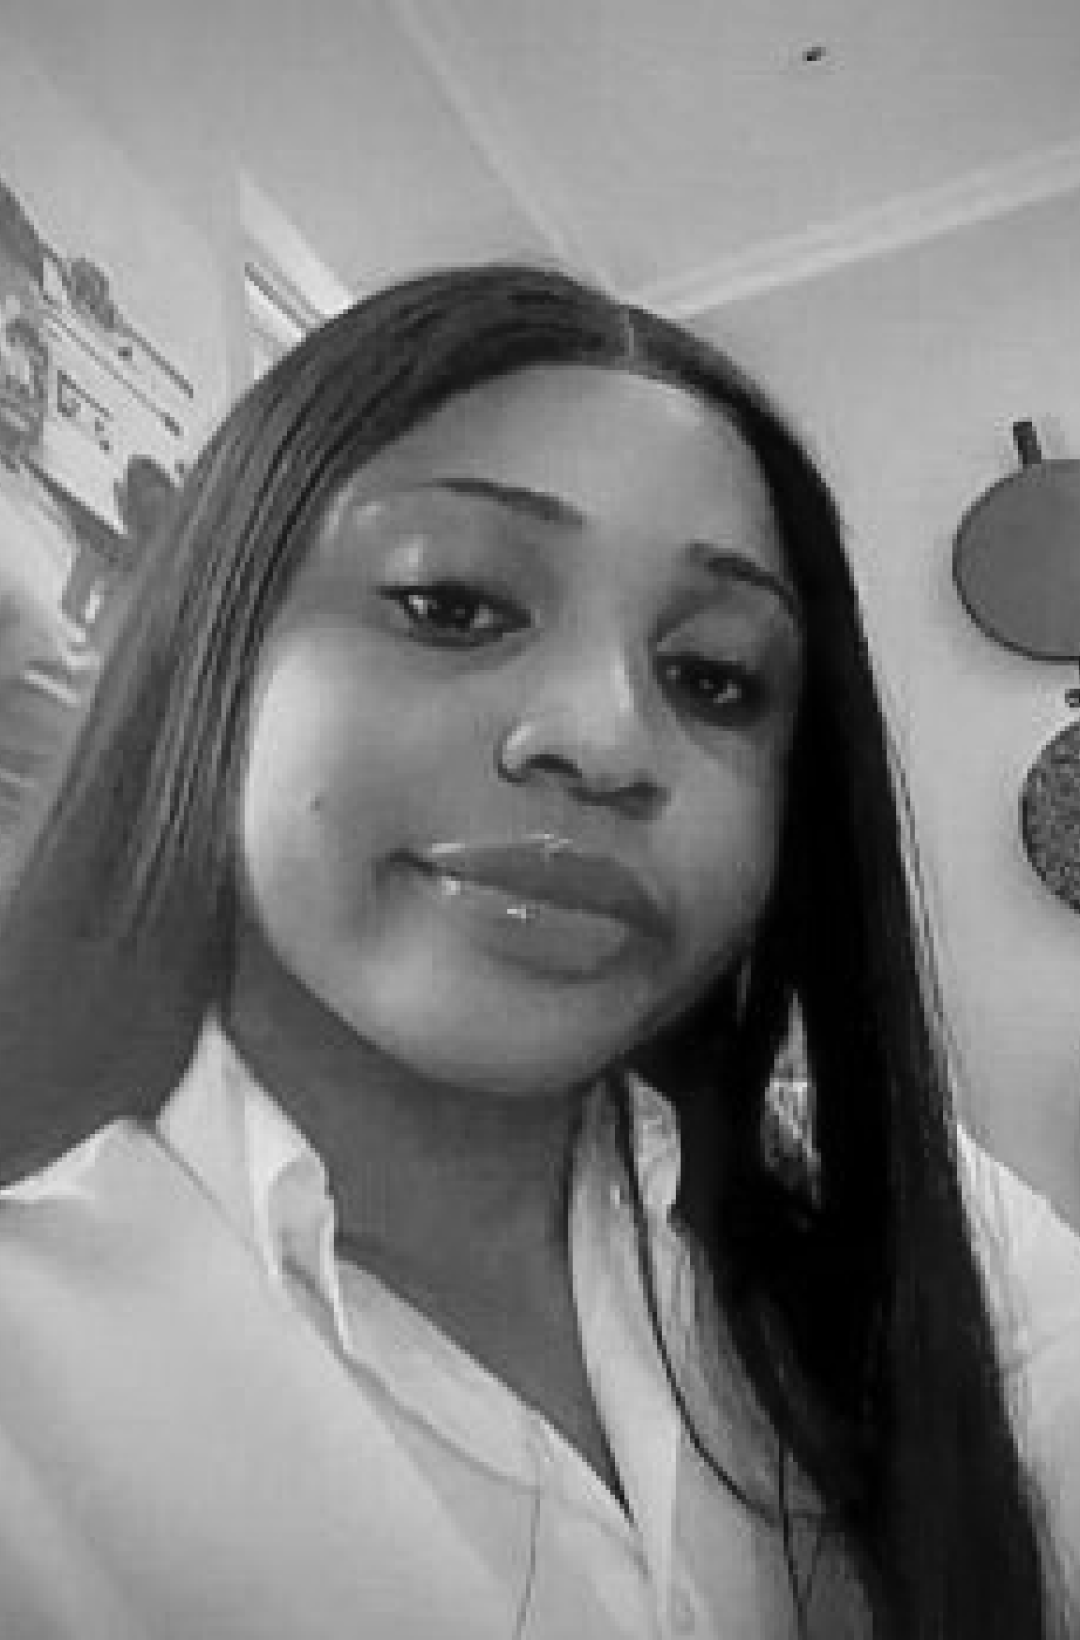
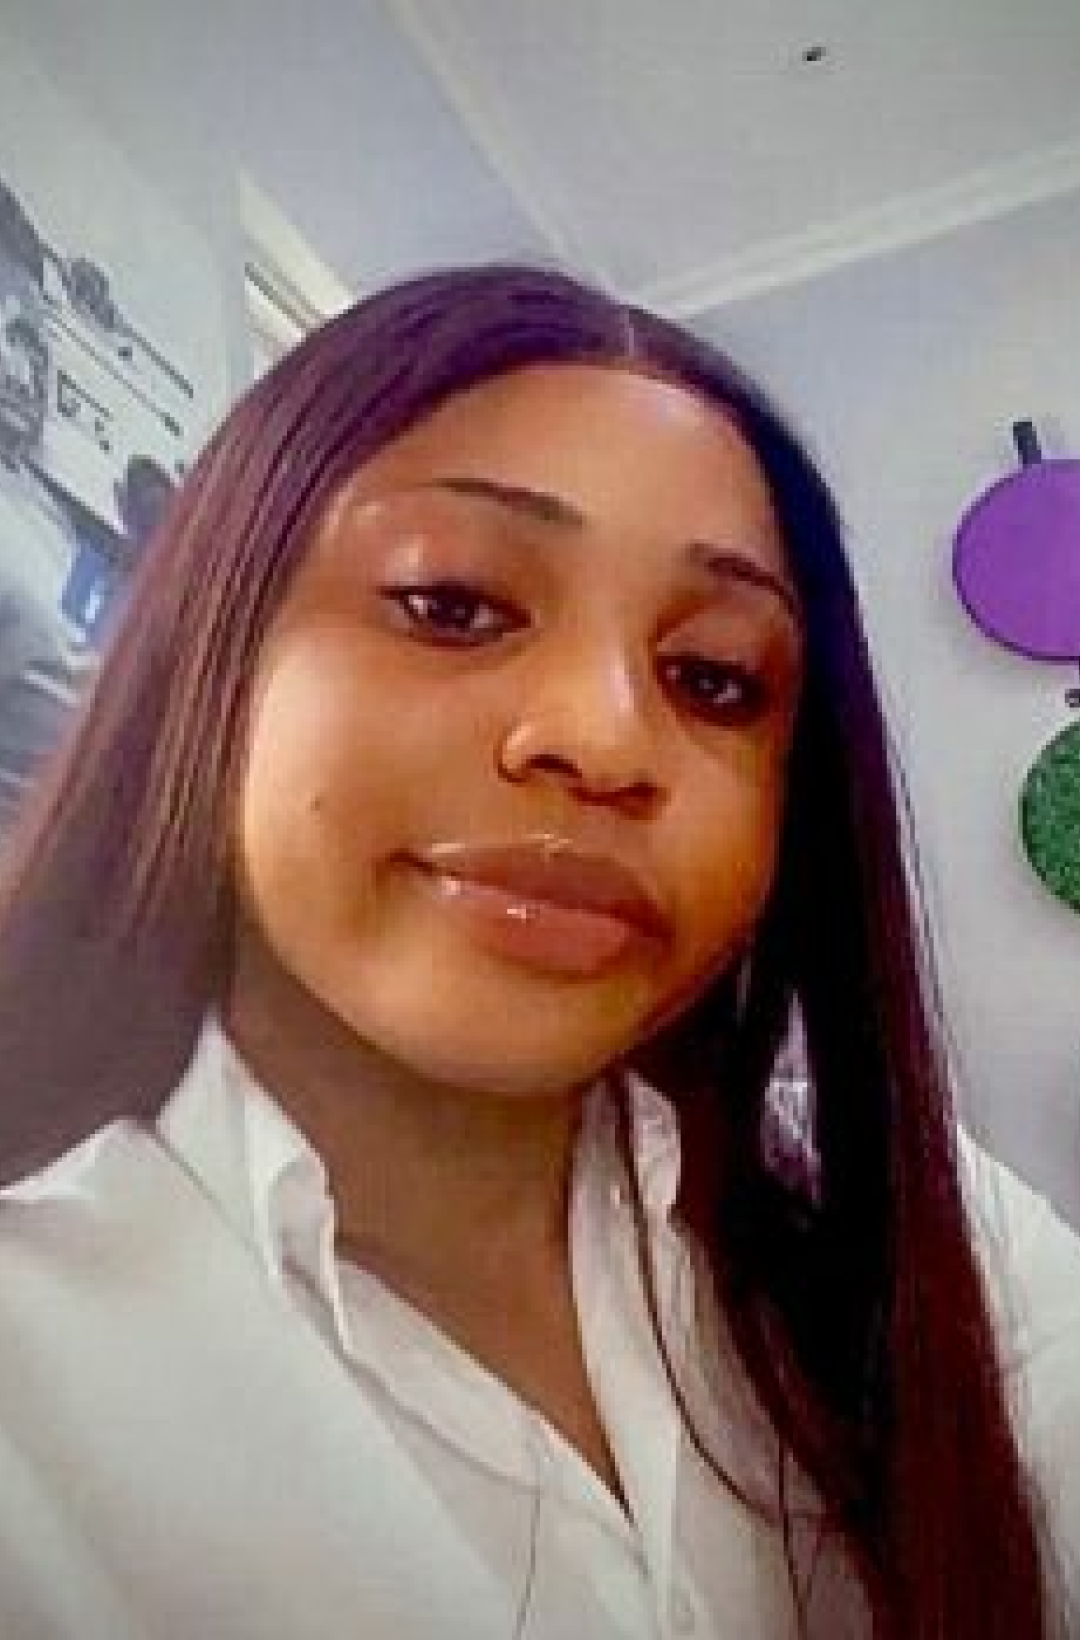
Worked on suggested fixes

diff --git a/src/app/(routes)/page.jsx b/src/app/(routes)/page.jsx
@@ -32,13 +32,14 @@ export default function Home() {
           <div className="potential-text">
             <h4>Unlock Your Trading Potential</h4>
             <p>
-              {`At PandomzFx, we're all about pushing boundaries and breaking free from constraints. It's time to go beyond
-            limits—explore the vast possibilities, learn with unmatched expertise, and achieve heights that once seemed
-            unreachable.`}
+              {`PadomzFx thrives on pushing boundaries and shattering constraints. It's time to exceed
+limits—explore endless possibilities, learn from unparalleled expertise, and reach heights
+that once seemed out of reach.`}
             </p>
             <p>
-              {`With PandomzFx, your journey becomes a limitless adventure where every insight gained, every skill honed,
-            propels you towards unparalleled success in the exhilarating realm of Forex trading.`}
+              {`With PandomzFx, your journey transforms into an adventure without boundaries. Every
+gained insight and honed skill propels you toward unparalleled success in the thrilling realm
+of Forex trading.`}
             </p>
           </div>
         </div>
@@ -61,8 +62,13 @@ export default function Home() {
               <div className="course-content--card--text">
                 <h5>Structured Learning</h5>
                 <p>
-                  Ut pariatur enim et dolore voluptatem sed placeat omnis ut voluptatibus ratione quo quisquam tempora
-                  nam amet assumenda est vero sint eos temporibus consequatur minus amet.
+                  Our academy provides a meticulously crafted curriculum designed to take you from a novice to a
+                  proficient trader.
+                </p>
+                <p>
+                  We offer a systematic approach that begins with foundational concepts, ensuring a solid understanding
+                  of the market, technical analysis, risk management, and trading psychology. Each module builds upon
+                  the previous one, fostering a progressive learning environment.
                 </p>
               </div>
             </div>
@@ -74,10 +80,14 @@ export default function Home() {
               </div>
               <div className="course-content--card--text">
                 <h5>Real-Time Market Insights</h5>
-
                 <p>
                   Stay ahead of the curve with access to live trading sessions, webinars, and market analysis. Learn to
                   interpret market movements and make well-informed trades.
+                </p>
+                <p>
+                  We provide cutting-edge tools and techniques that empower our students with the ability to conduct
+                  real-time analysis. Through live market feeds, up-to-the-minute data, and advanced analytical
+                  resources, our students learn to interpret market dynamics swiftly and accurately.
                 </p>
               </div>
             </div>
@@ -89,10 +99,18 @@ export default function Home() {
               </div>
               <div className="course-content--card--text">
                 <h5>Proven Success Stories</h5>
+
                 <p>
-                  {`Our students have achieved remarkable results, and many have gone on to become successful Forex
-                  traders. When you choose a PandomFx course, you're setting yourself up for a bright future in the
-                  world of Forex.`}
+                  {`Our students have achieved remarkable results, and many have
+                  gone on to become successful Forex traders. When you choose a
+                  PadomzFx course, you're setting yourself up for a bright
+                  future in the world of Forex.`}
+                </p>
+                <p>
+                  Our academy boasts a wealth of success stories, with numerous students achieving their trading goals
+                  and realizing financial independence through our mentorship and educational programs. These success
+                  stories serve as a testament to the effectiveness of our tailored curriculum, personalized mentorship,
+                  and practical learning approach.
                 </p>
               </div>
             </div>
@@ -108,6 +126,12 @@ export default function Home() {
                   Our courses cover everything from the basics of Forex trading to advanced strategies, technical and
                   fundamental analysis, and risk management. We provide you with a 360-degree education to make informed
                   trading decisions.
+                </p>
+                <p>
+                  {`We believe in a hands-on approach to learning. Our curriculum
+                  isn't just theory; it's practical application. We offer live
+                  trading sessions, real-time simulations, and case studies that
+                  immerse students in the dynamic world of Forex trading.`}
                 </p>
               </div>
             </div>

diff --git a/src/app/(routes)/about/page.jsx b/src/app/(routes)/about/page.jsx
@@ -28,13 +28,13 @@ export default function About() {
           </div>
           <div className="academy-content">
             <div className="academy-text">
-              <h4>The Academy</h4>
+              <h4>About PadomzFx</h4>
               <p>
-                {`   Welcome to PadomzFx Academy, where financial success begins with knowledge and support. We're more than
-              just an academy; we're your partners on the journey to financial empowerment. We believe in a hands-on,
-              practical approach to learning. Our courses are designed to give you the knowledge you need, but we also
-              emphasize real-world practice. You'll have access to live trading sessions, market analysis, and ongoing
-              support to ensure your success.`}
+                {` Welcome to PadomzFx Academy, your Gateway to Financial Success through Knowledge and
+Support. As your dedicated partners in financial empowerment, we offer more than mere
+education—we're committed to your success. Our approach blends theoretical knowledge with
+hands-on practice, providing live trading sessions, market analysis, and continuous support. Join us
+to gain essential knowledge and practical experience for your financial journey.`}
               </p>
             </div>
             <div className="academy-group">
@@ -74,8 +74,8 @@ export default function About() {
               </div>
               <p>Community</p>
               <p>
-                Joining PadomzFx Academy means becoming part of a vibrant and supportive community. Connect with fellow
-                traders, share experiences, and learn from each other.
+                PadomzFx consists of a thriving and supportive community. Engage with like-minded traders, exchange
+                experiences, and benefit from collaborative learning opportunities.
               </p>
             </div>
             <div className="advantage-card">
@@ -84,8 +84,8 @@ export default function About() {
               </div>
               <p>Expertise</p>
               <p>
-                Joining PadomzFx Academy means becoming part of a vibrant and supportive community. Connect with fellow
-                traders, share experiences, and learn from each other.
+                {`At PadomzFx Academy, expertise is not just an aspiration; it's our cornerstone. Our mission is to
+                cultivate expertise in every potential trader who walks through our doors.`}
               </p>
             </div>
             <div className="advantage-card">
@@ -94,8 +94,8 @@ export default function About() {
               </div>
               <p>Funding Opportunities</p>
               <p>
-                {`    We're not just about education; we're also about providing you with funding opportunities to kickstart
-                your trading career. We believe in your potential, and we're ready to invest in it.`}
+                {`We understand that access to capital is crucial for forex traders starting their journey, which is why
+we offer unique funding programs to support your ambitions. We fund, you make money.`}
               </p>
             </div>
           </div>
@@ -125,8 +125,8 @@ export default function About() {
             <header>
               <h4>Our Approach</h4>
               <p>
-                At PandomFx, we believe in a revolutionary approach to Forex education and trading that sets us apart.
-                Our unique methodology is designed to empower you at every step of your trading journey.
+                At PadomzFx, we believe in a revolutionary approach to Forex Trading education that sets us apart. Our
+                unique methodology is designed to empower you at every step of your trading journey.
               </p>
             </header>
             <Image src={ApproachImage} height="" width="" alt="" />
@@ -155,7 +155,7 @@ export default function About() {
               <div className="approach-text">
                 <p>Get Funded</p>
                 <p>
-                  Qualify for a live trading account with financial backing from PandomFx. Trade in a real-world
+                  Qualify for a live trading account with financial backing from PadomzFx. Trade in a real-world
                   environment without risking your own capital.
                 </p>
               </div>

diff --git a/src/app/_components/organisms/TrainingSection.jsx b/src/app/_components/organisms/TrainingSection.jsx
@@ -26,9 +26,9 @@ export const TrainingSection = ({ className, openModal, closeModal }) => {
               <p>Upcoming register</p>
               <h4>Mastering Forex Trading - A Comprehensive Guide</h4>
               <p>
-                Are you looking to unlock the potential of the Forex market and become a skilled trader? The course is
-                designed for beginners and intermediate traders who want to develop a solid understanding of the Forex
-                market, trading strategies...
+                Are you ready to Unleash Your Forex Trading Potential? This course caters to beginners and intermediate
+                traders aiming to gain a robust grasp of the Forex market. Explore trading strategies and foundational
+                concepts in this comprehensive program designed for those eager to evolve into skilled traders.
               </p>
             </header>
             <ul>

diff --git a/src/app/_components/organisms/LandingHeader.jsx b/src/app/_components/organisms/LandingHeader.jsx
@@ -17,10 +17,10 @@ export const LandingHeader = () => {
         <div className="landing-header-content--text">
           <h1>Learn Forex while you Earn with us</h1>
           <h5>
-            At Padomz Forex, we provide you with funding and take care of the risk so you can enjoy up to 90% of the
-            profits that you make.
+            Padomz Forex will teach you, fund your trading account, assuming the risk for you, allowing you to retain
+            almost all of your generated profits.
           </h5>
-          <Button>View Training</Button>
+          <Button>Learn How To Trade With PadomzFx</Button>
         </div>
         <div className="landing-header-content--image">
           <Image src={HeroImage} width="" height="" alt="HeroImage" />

diff --git a/src/app/_assets/styles/team.module.scss b/src/app/_assets/styles/team.module.scss
@@ -24,10 +24,17 @@
       @apply lg:w-[23.68%];
 
       &-image {
-        @apply relative;
+        @apply relative transition duration-1000 ease-in-out transform;
         //
         & img {
           @apply w-[100%];
+          -webkit-filter: grayscale(100%); /* Safari 6.0 - 9.0 */
+          filter: grayscale(100%);
+
+          &:hover {
+            -webkit-filter: grayscale(0); /* Safari 6.0 - 9.0 */
+            filter: grayscale(0);
+          }
         }
       }
 

diff --git a/src/app/_assets/styles/about.module.scss b/src/app/_assets/styles/about.module.scss
@@ -53,7 +53,7 @@
   }
 
   & .advantage {
-    @apply w-full px-[1.6rem] m-auto mb-[20rem];
+    @apply w-full px-[2.4rem] m-auto mb-[20rem];
     & header {
       @apply flex flex-col items-center;
       & h4 {

diff --git a/src/app/_assets/styles/index.module.scss b/src/app/_assets/styles/index.module.scss
@@ -50,7 +50,7 @@
           }
           //
           & p {
-            @apply w-[88.38%];
+            @apply mb-[2.4rem] text-left w-[88.38%];
           }
         }
 
